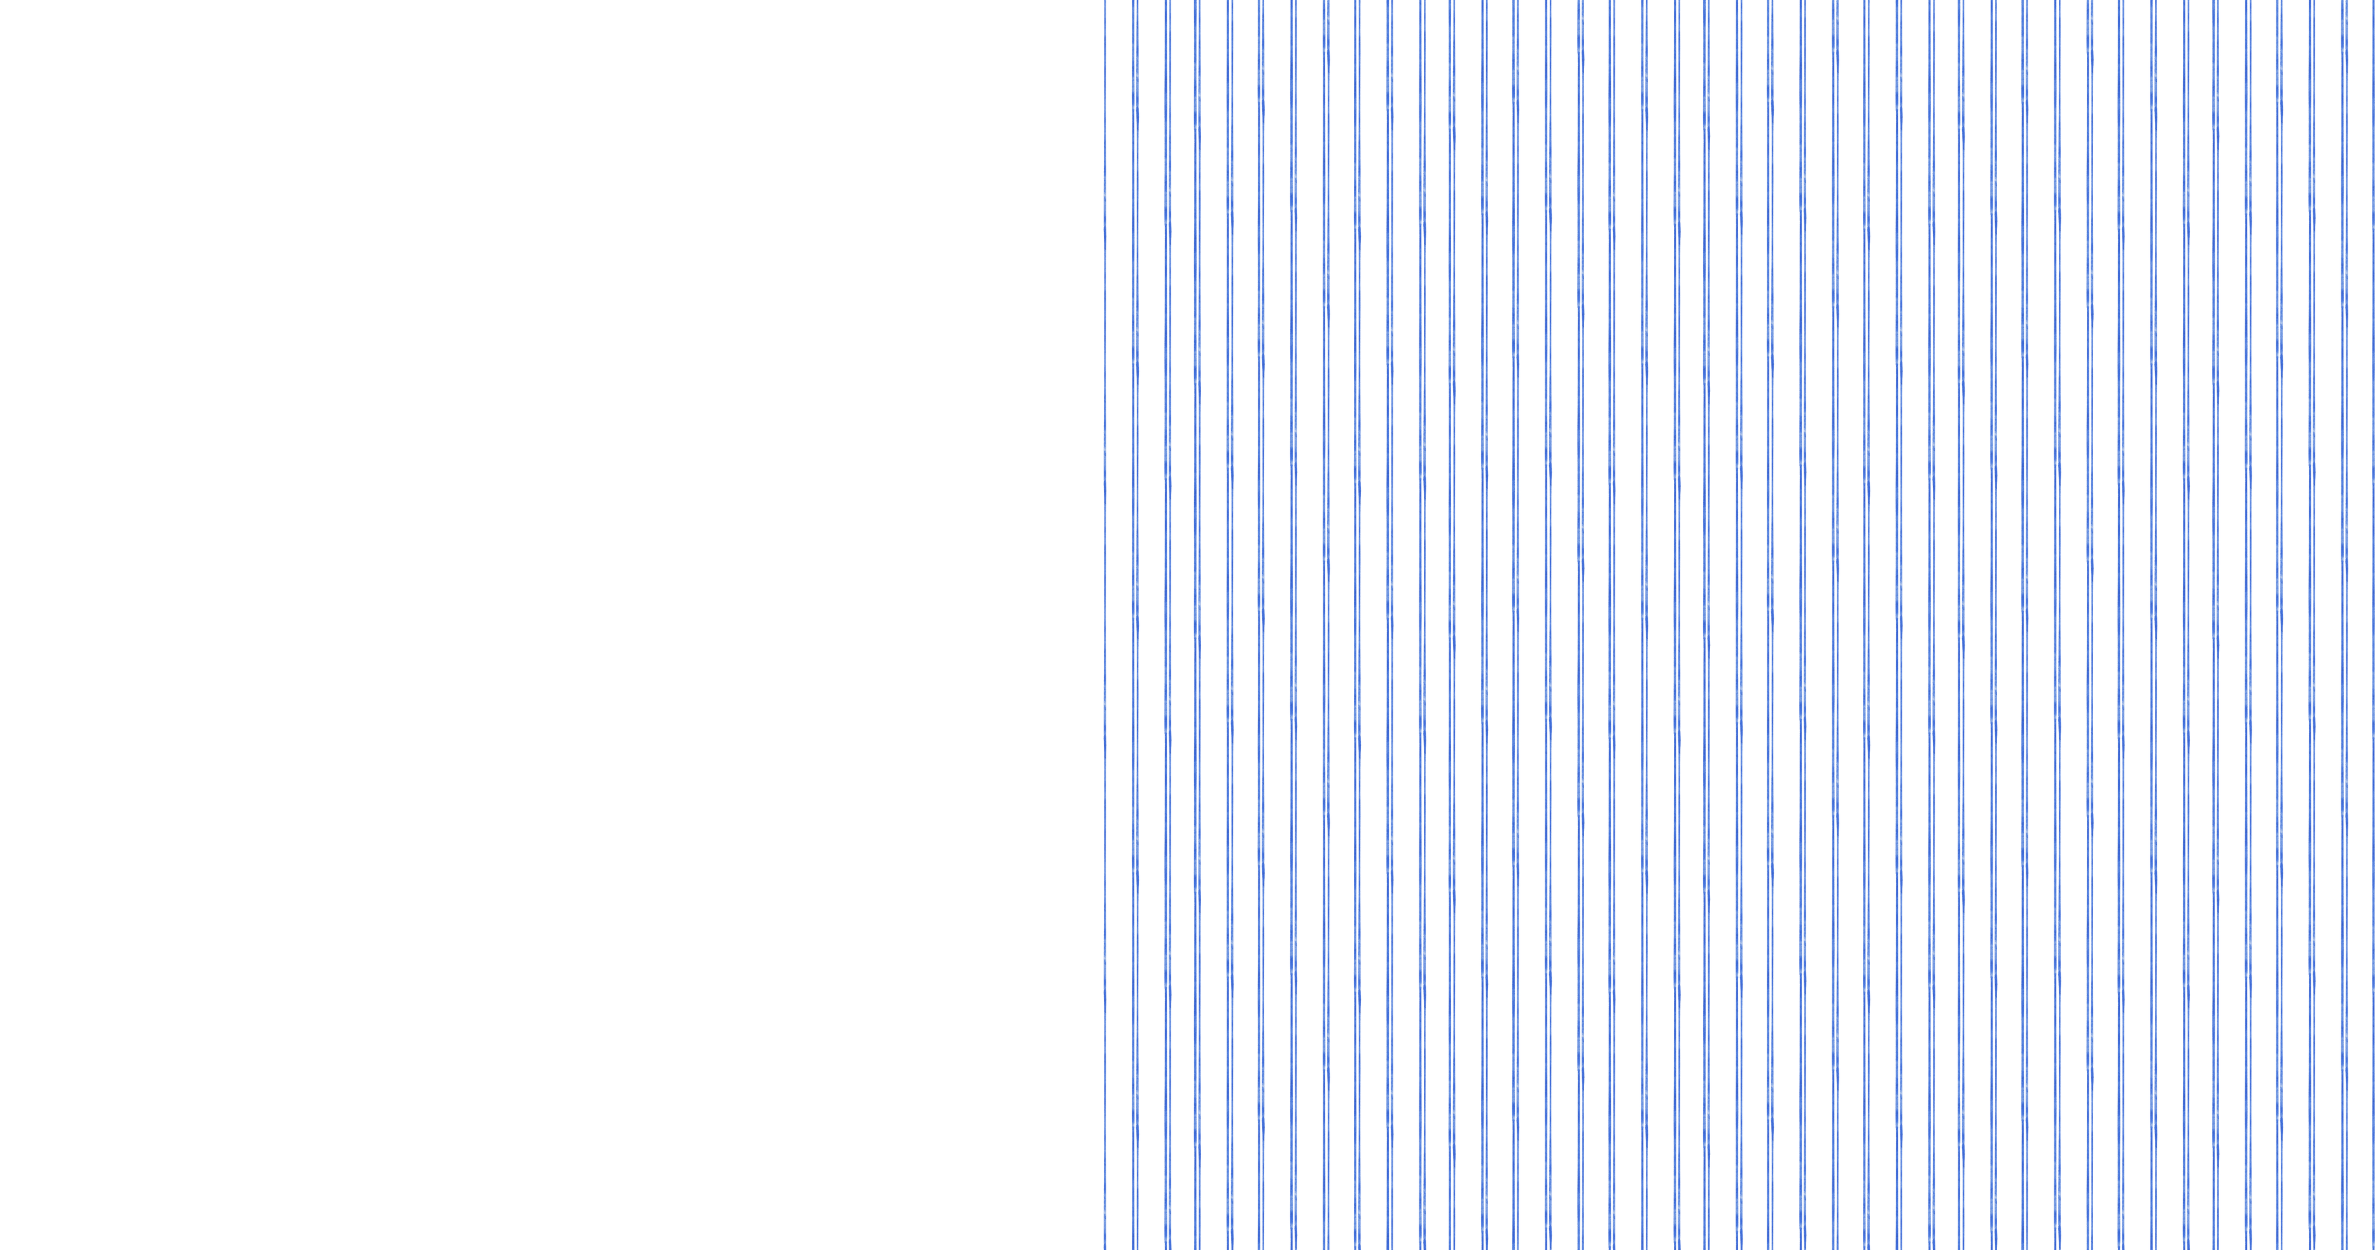
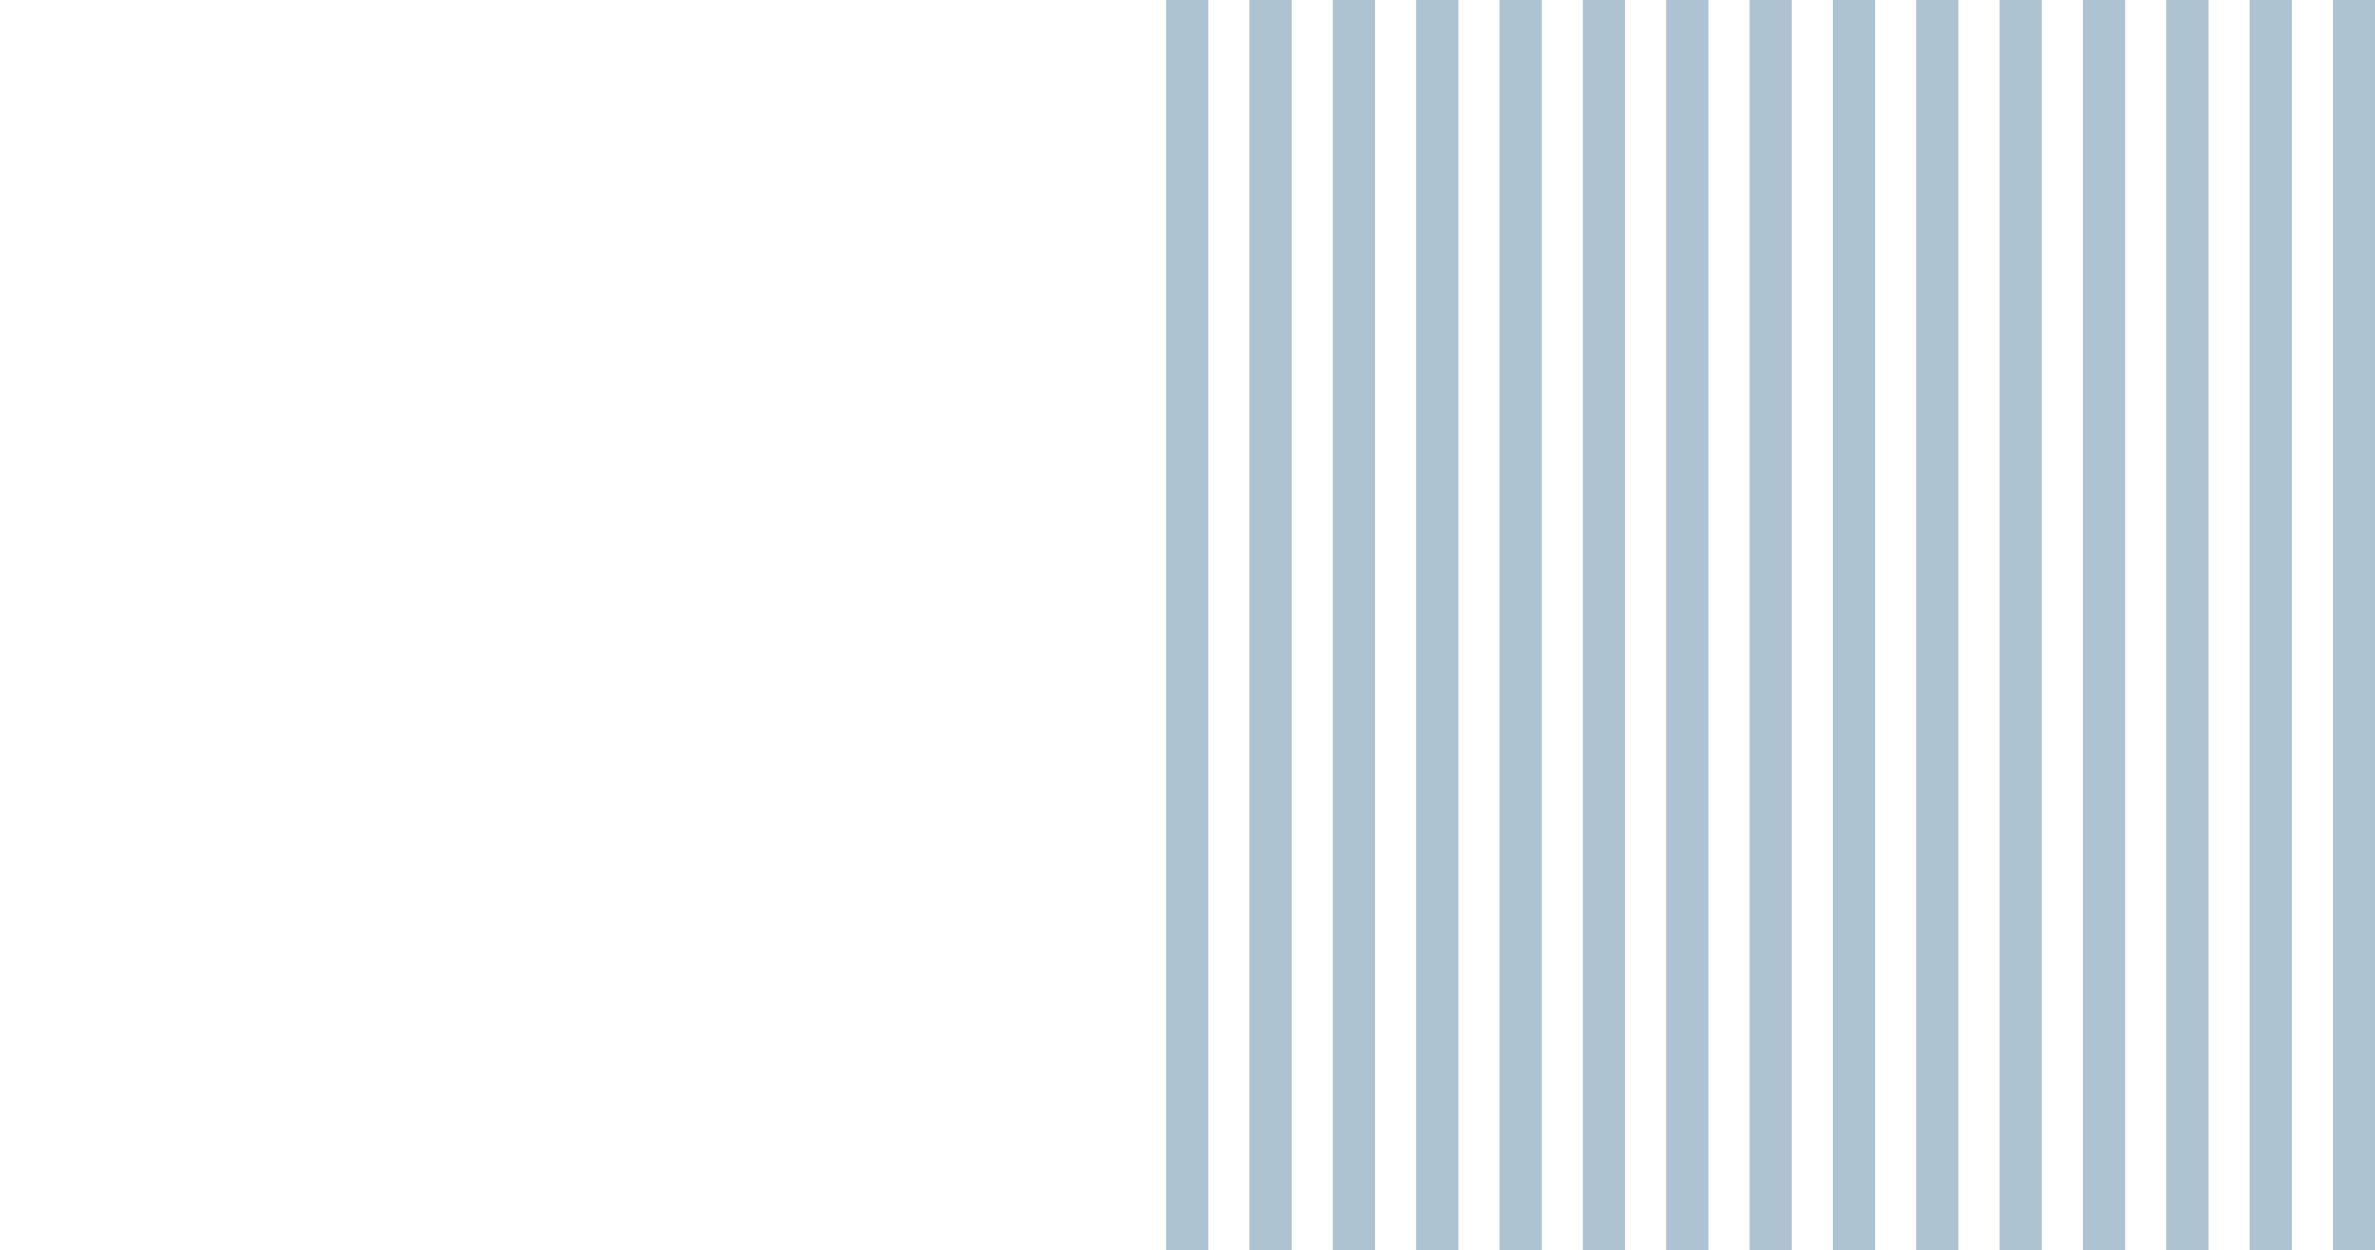
j

diff --git a/style2.css b/style2.css
@@ -479,31 +479,37 @@ color: #ffffff;
 /* ================================
    About Us (Our Story)
    ================================ */
+:root{
+  /* % of the section reserved for the LEFT (plain white) side */
+  --about-left: 50%;      /* change to 50%, 60%, etc., to adjust the split */
+}
+
 .about-us-preview {
   position: relative;
   overflow: visible;
 }
 
 /* Two-layer background:
-   1) Left panel = solid white (width you control)
-   2) Right panel = stripes image, pinned to right
+   1) left panel = solid white
+   2) right panel = stripes image, pinned to the right
+   NOTE: keep the % in BOTH places in sync with --about-left
 */
 .about-us-background {
   padding: 40px 0;
-  /* layer 1: solid white left; layer 2: stripes on right */
+  background-color: #aec3d1;
   background-image:
-    linear-gradient(to right, #ffffff 0%, #ffffff 56%, transparent 56%),  /* left pane */
-    url("Resources/pics/striped-background-right.png");                         /* right stripes */
-  background-repeat: no-repeat, repeat;       /* gradient doesn't repeat; stripes do */
-  background-position: left top, right top;   /* pin stripes to the right */
-  background-size: 100% 100%, 44% 100%;       /* left 56% white, right 44% stripes */
-  /* tweak 56/44 to taste */
+    linear-gradient(to right, var(--secondary-color) 0 var(--about-left), transparent var(--about-left)),
+    url("Resources/pics/striped-background-right.png");
+  background-repeat: no-repeat, no-repeat;
+  background-position: left top, right top;
+  /* right pane width = 100% - left pane width */
+  background-size: 100% 100%, calc(100% - var(--about-left)) 100%;
 }
 
 /* CONTENT ROW */
 .about-us-content {
   display: flex;
-  align-items: flex-start;
+  align-items: center;
   gap: clamp(40px, 8vw, 100px);
   position: relative;
   z-index: 1;                                  /* above the bg layers */
@@ -518,7 +524,7 @@ color: #ffffff;
   color: var(--text-color);
 }
 
-/* Headings & copy (unchanged other than your palette) */
+/* Headings & copy */
 .about-us-text h3 {
   color: var(--text-color);
   font-family: "Peach Flamingo Script", cursive;
@@ -577,8 +583,7 @@ color: #ffffff;
 .polaroid {
   flex: 0 1 380px;
   max-width: 440px;
-  margin-left: 200px;
-  margin-right: clamp(20px, 4vw, 60px);
+  margin: 0 auto;   /* centers it horizontally */
   background: #fff;
   padding: 16px 16px 38px;
   border: 1px solid rgba(0,0,0,0.06);
@@ -587,7 +592,7 @@ color: #ffffff;
     0 6px 18px rgba(0,0,0,0.08);
   transform: rotate(2deg);
   transform-origin: 50% 50%;
-  position: relative; /* needed for mobile stripes (see below) */
+  position: relative;                           /* needed for mobile ::before stripes */
 }
 .polaroid img {
   display: block;
@@ -607,37 +612,40 @@ color: #ffffff;
    Responsive (stacked)
    ================================ */
 @media (max-width: 900px) {
-  /* Text above photo; keep background plain white here */
   .about-us-content {
     flex-direction: column;
     gap: 24px;
     padding-left: 20px;
     padding-right: 20px;
+    position: relative;
+    align-items: flex-start;  /* text stays left */
+    text-align: left;         /* left align text */
   }
 
-  /* Remove section-wide stripes on small screens */
   .about-us-background {
-    background: #ffffff;
+    background-image:
+      linear-gradient(to top, #ffffff 0 40%, transparent 40%),
+      url("Resources/pics/striped-background-right.png");
+    background-repeat: no-repeat, no-repeat;
+    background-position: top, center bottom;
+    background-size: 100% 40%, 100% 60%;
   }
 
-  /* Put stripes only behind the Polaroid */
-  .polaroid::before {
-    content: "";
-    position: absolute;
-    z-index: -1;                     /* behind the Polaroid card */
-    inset: -24px -24px -24px -24px;  /* bleed around the card; tweak to taste */
-    background-image: url("Resources/pics/striped-background-right.png");
-    background-size: cover;
-    background-repeat: no-repeat;
-    background-position: center;
+  .about-us-text {
+    max-width: 100%;
+    margin: 0 0 20px 0; /* space below text */
   }
 
   .polaroid {
+    margin: 0 auto;       /* photo centered */
     transform: rotate(1deg);
-    max-width: 100%;
-    margin-right: 0;
+    max-width: 90%;
+    z-index: 1;
   }
 }
+
+
+
 
 
 
